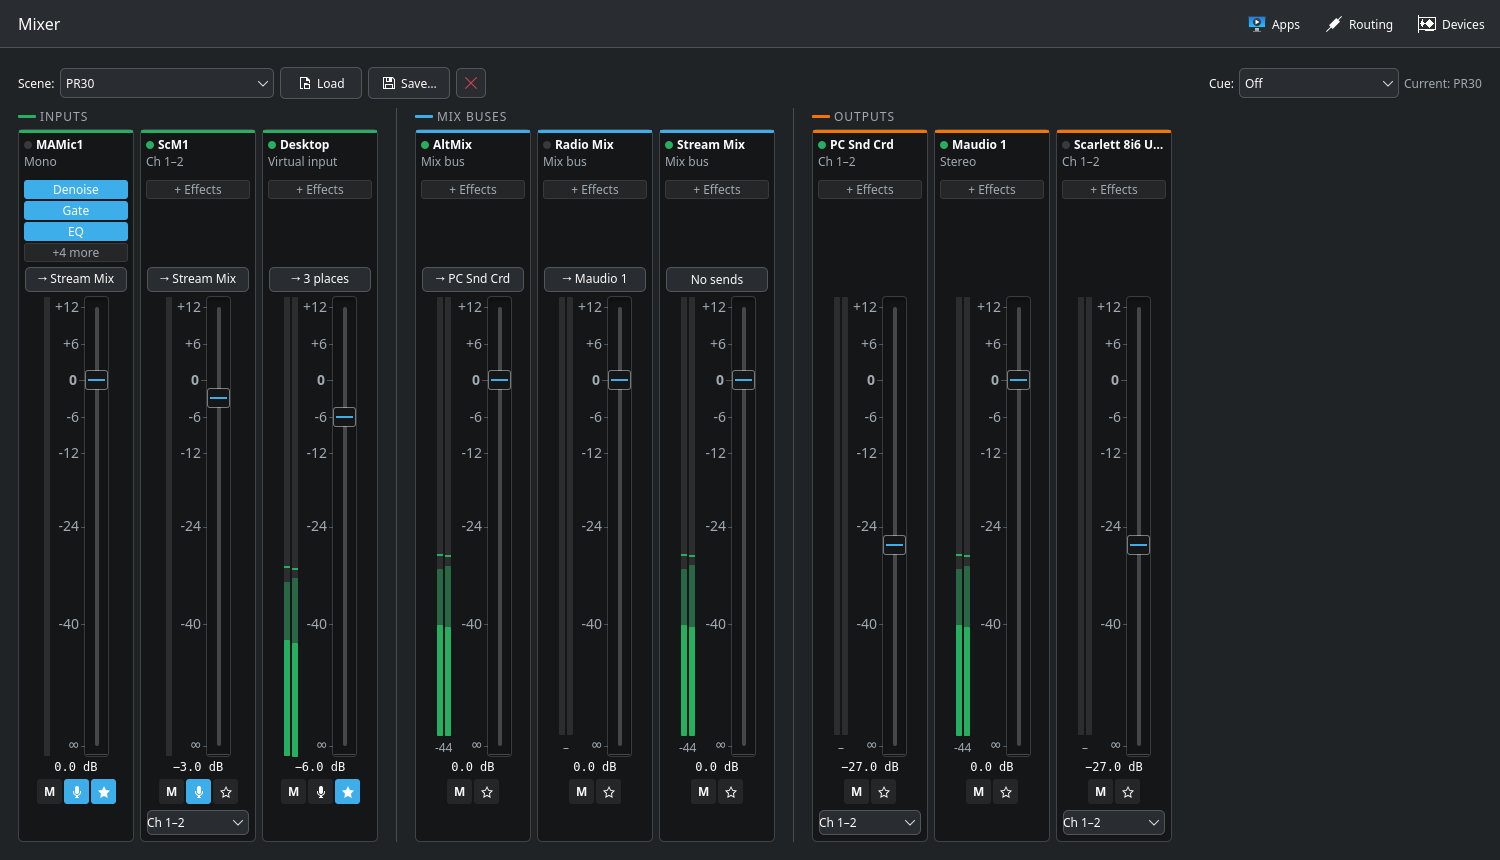
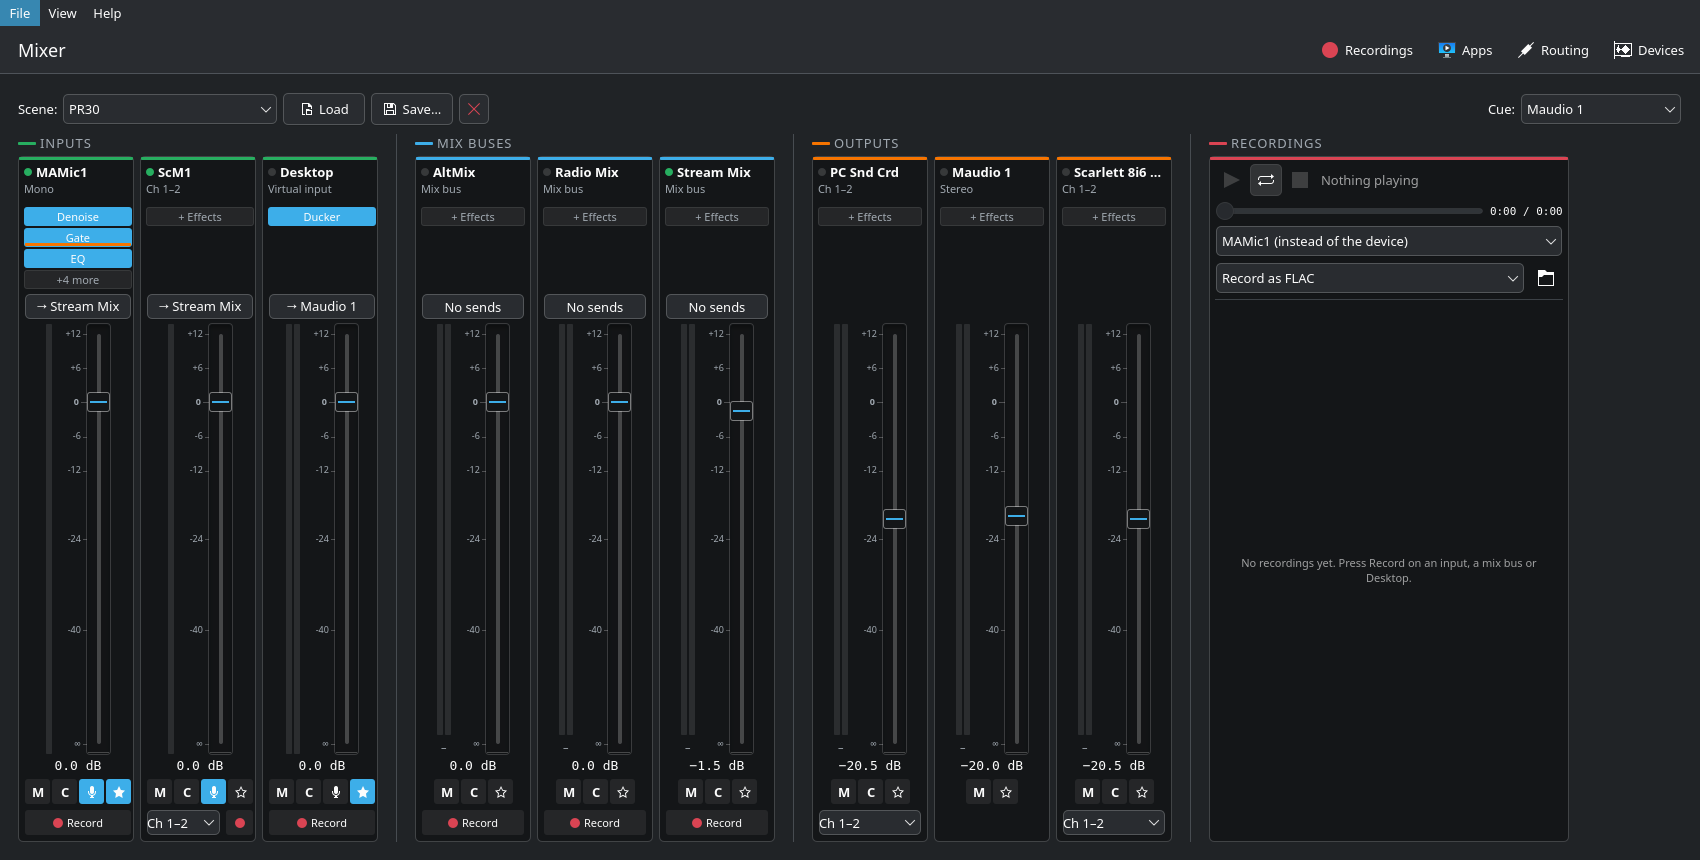
Version 0.11: recording and playback
README: the recording feature, the 0.11 package names and a new mixer
screenshot with the Recordings panel. User guide: the format is chosen in
the panel too.

diff --git a/app/main.cpp b/app/main.cpp
@@ -16,7 +16,7 @@ int main(int argc, char *argv[])
 {
     QGuiApplication app(argc, argv);
     QGuiApplication::setApplicationName(QStringLiteral("patchprime"));
-    // Qt adds the display name to every window's title (" — Patch Prime 0.10"),
+    // Qt adds the display name to every window's title (" — Patch Prime 0.11"),
     // so the version shows in each title bar; windows don't repeat it.
     QGuiApplication::setApplicationDisplayName(QStringLiteral("Patch Prime " PATCHPRIME_VERSION));
     QGuiApplication::setOrganizationDomain(QStringLiteral("kingsqueak.org"));

diff --git a/README.md b/README.md
@@ -18,6 +18,7 @@ A virtual audio mixer and router for KDE Plasma, built on PipeWire. Think of it 
   - broadcast leveler and safety limiter;
   - reverb;
   - delay, to line up outputs with different latency.
+- **Recording and playback.** Record any input, mix bus or Desktop to FLAC, WAV or MP3 with one click, and play recordings back into a strip. Play a raw mic sample into the mic's own strip, on a loop, to set up its effects while you listen.
 - **Scenes.** Save the whole mix, including effects, under a name and load it back.
 - **Cue.** Listen to any strip alone in your headphones without changing the mix.
 - **Metering.** Peak, RMS and peak hold on every strip, short-term loudness (LUFS) on mix buses and outputs, and gain-reduction meters in the effects.
@@ -28,7 +29,7 @@ See the **[user guide](docs/HELP.md)** for how to use it.
 
 ## Status
 
-Version 0.10: under active development and in daily use on the author's machine. Phases 1–6 (devices, mixer, routing, apps, scenes, effects, monitoring) are done, with packages for Ubuntu 26.04, Fedora 44 and Arch Linux. Next: plugin hosting (LV2 first) and hardware control.
+Version 0.11: under active development and in daily use on the author's machine. Phases 1–6 (devices, mixer, routing, apps, scenes, effects, monitoring) and recording are done, with packages for Ubuntu 26.04, Fedora 44 and Arch Linux. Next: plugin hosting (LV2 first) and hardware control.
 
 ## Requirements
 
@@ -61,9 +62,9 @@ Each release has packages built by GitHub Actions; download the one for your sys
 
 | System | Package | Install |
 | --- | --- | --- |
-| Ubuntu 26.04 (amd64, arm64) | `patchprime_<version>-1_<arch>.deb` | `sudo apt install ./patchprime_0.10-1_amd64.deb` |
-| Fedora 44 (x86_64, aarch64) | `patchprime-<version>-1.fc44.<arch>.rpm` | `sudo dnf install ./patchprime-0.10-1.fc44.x86_64.rpm` |
-| Arch Linux (x86_64) | `patchprime-<version>-1-x86_64.pkg.tar.zst` | `sudo pacman -U patchprime-0.10-1-x86_64.pkg.tar.zst` |
+| Ubuntu 26.04 (amd64, arm64) | `patchprime_<version>-1_<arch>.deb` | `sudo apt install ./patchprime_0.11-1_amd64.deb` |
+| Fedora 44 (x86_64, aarch64) | `patchprime-<version>-1.fc44.<arch>.rpm` | `sudo dnf install ./patchprime-0.11-1.fc44.x86_64.rpm` |
+| Arch Linux (x86_64) | `patchprime-<version>-1-x86_64.pkg.tar.zst` | `sudo pacman -U patchprime-0.11-1-x86_64.pkg.tar.zst` |
 
 On Arch you can also build it yourself: `makepkg -si` in [`packaging/arch`](packaging/arch). The engine starts at your next login (or right away when you open **Patch Prime** from the application menu). Patch Prime needs Qt 6.10 or newer, KDE Frameworks 6 and PipeWire 1.6, so older releases of these distributions can't run it.
 

diff --git a/docs/HELP.md b/docs/HELP.md
@@ -125,7 +125,7 @@ Inputs, mix buses (Stream Mix, for example) and routed inputs (Desktop) can be r
 
 - **What's recorded** on a mix bus or Desktop is what the strip sends on, after its effects and its fader: what the rest of the mix hears from it, and what OBS would capture. On a hardware **input** (a microphone) it's the raw sound, as the device sends it, before the strip's effects and fader. A mono input records in mono (the same sound in both channels).
 - **Where:** files go to `~/Music/Patch Prime`, named after the strip and the time, for example `Stream Mix 2026-10-31 11-42-07.flac`.
-- **Format:** choose it on the Recordings page. **FLAC** is lossless at about half the size of WAV. **WAV** is uncompressed. **MP3** is small and plays everywhere, but only up to 48 kHz: at a higher mixer rate an MP3 recording stops at once with a message. FLAC and WAV are 24-bit. The format applies to the next recording.
+- **Format:** choose it in the Recordings panel or on the Recordings page. **FLAC** is lossless at about half the size of WAV. **WAV** is uncompressed. **MP3** is small and plays everywhere, but only up to 48 kHz: at a higher mixer rate an MP3 recording stops at once with a message. FLAC and WAV are 24-bit. The format applies to the next recording.
 - Recording runs in the engine, so it carries on with the window closed. It stops if you change the mixer's sample rate or the audio server restarts; what was recorded until then is kept.
 
 The **Recordings panel**, to the right of the outputs in the mixer, has the player at the top (play/pause, loop, stop, position, **Play into**), the recording format and the folder button, and the files below it in a scrolling list. The **Recordings** page (View menu, Ctrl+5, or the Recordings button above the mixer) has the same with more room. Both list the files newest first, with their length, size and date.
